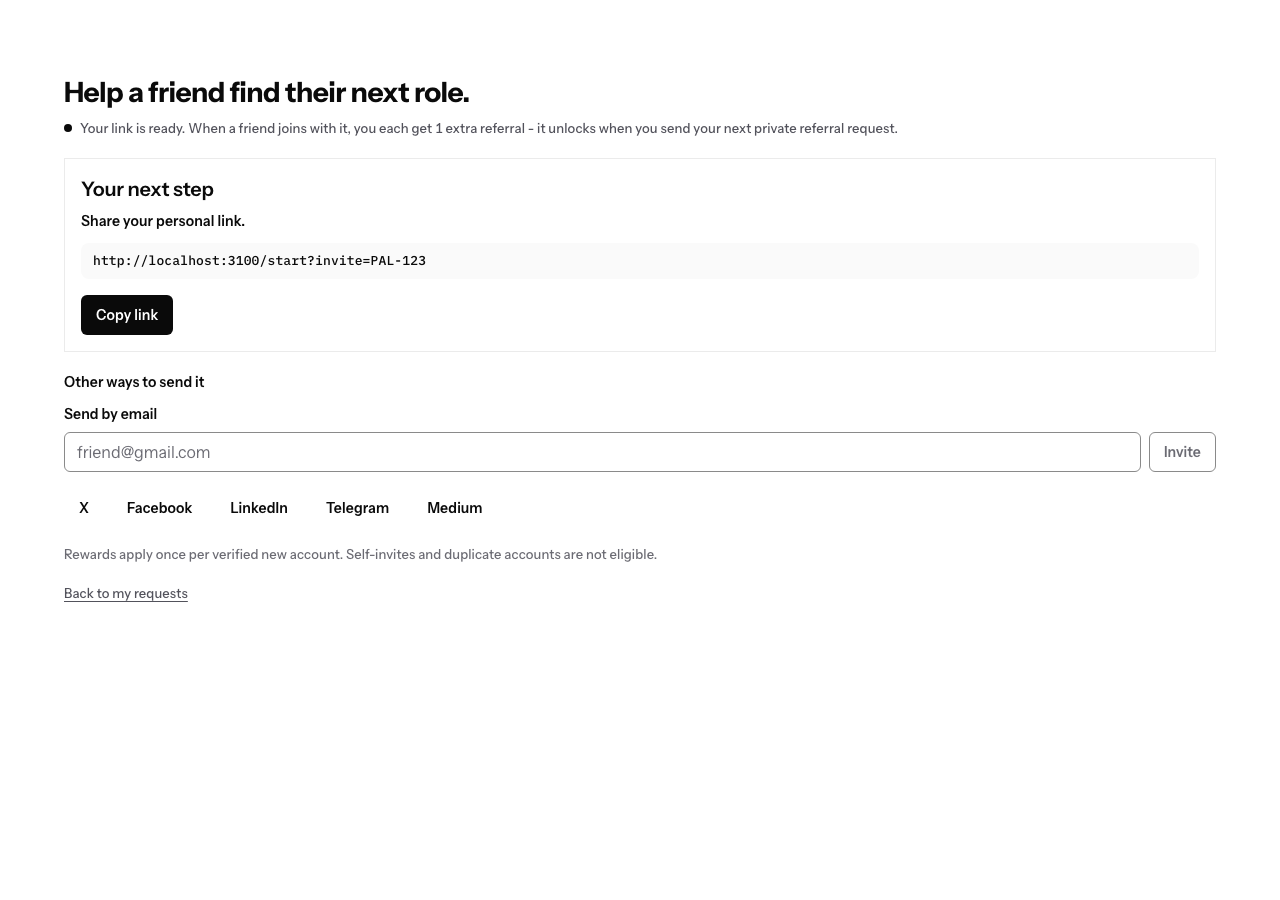
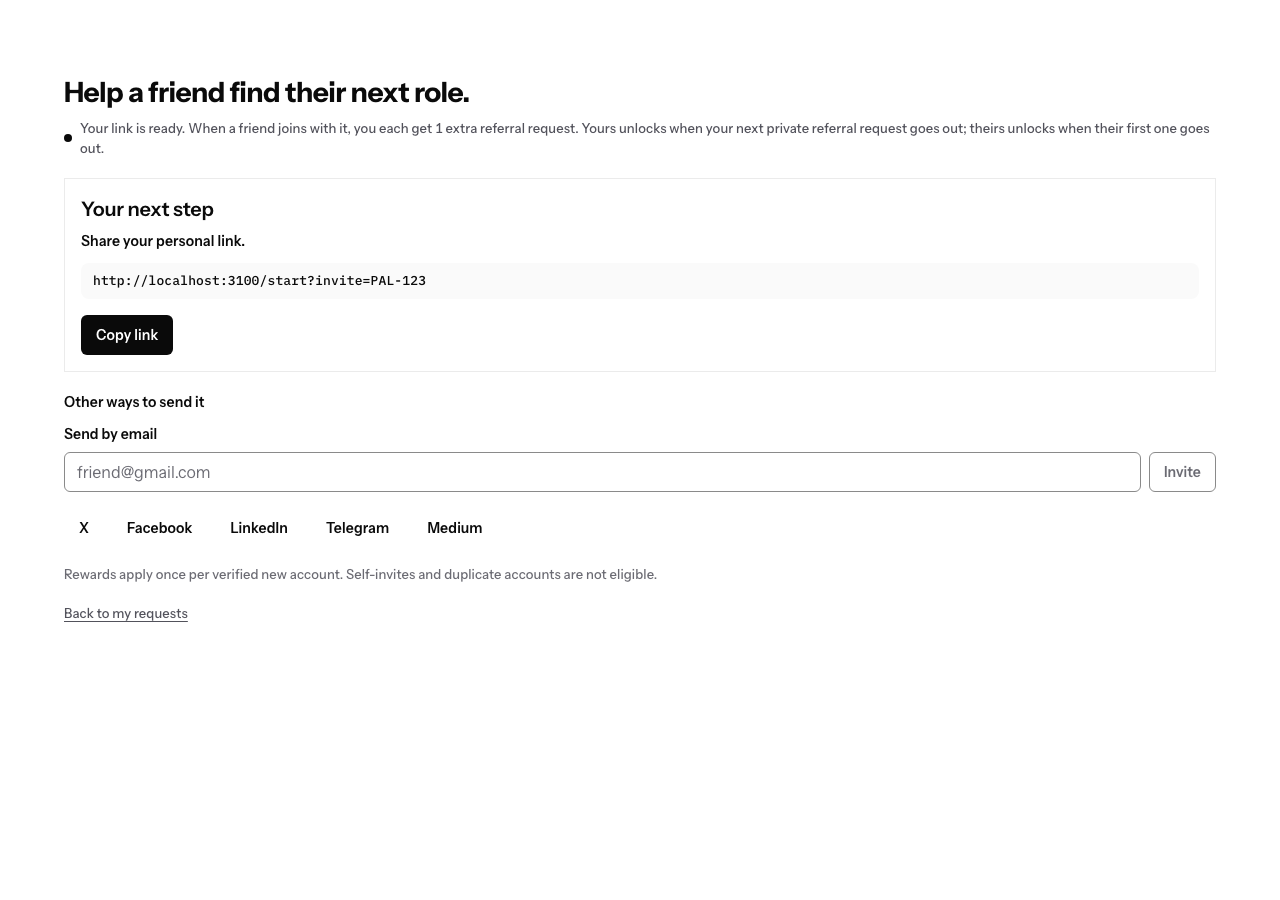
D-048-copy-goal-twins-trigger-fix: state each party's own unlock trigger in the share message and status line; unit is a referral request; cover every rendered state

diff --git a/client/src/pages/goal/seeker-small/landedGoal.test.tsx b/client/src/pages/goal/seeker-small/landedGoal.test.tsx
@@ -16,10 +16,13 @@ vi.mock("@/lib/goalSurfaces", async (importOriginal) => {
 vi.mock("@/hooks/usePersistFn", () => ({ usePersistFn: (fn: unknown) => fn }));
 
 const hire = { id: "r1", status: "closed", referrerId: "ref-1", referrerName: "Asha Rao", title: "Frontend Engineer", companyName: "Quillmint", companyDomain: "quillmint.ai", updatedAt: "2026-10-20T00:00:00Z" };
-const requestsState = { requests: [hire] };
+const requestsState = { requests: [hire], fail: false };
 vi.mock("@/components/requests/requestsApi", () => ({
   LOAD_ERROR: "We could not load your referral requests.",
-  fetchMyRequests: vi.fn(async () => ({ requests: requestsState.requests })),
+  fetchMyRequests: vi.fn(async () => {
+    if (requestsState.fail) throw new Error("We could not load your referral requests.");
+    return { requests: requestsState.requests };
+  }),
 }));
 const sendState = { delivered: true, fail: false };
 vi.mock("@/components/landed/landedModel", async (importOriginal) => {
@@ -35,7 +38,7 @@ function renderPage() {
 }
 
 describe("goal landed", () => {
-  beforeEach(() => { authState.isLoaded = true; authState.isSignedIn = true; flagState.on = true; requestsState.requests = [hire]; sendState.delivered = true; sendState.fail = false; });
+  beforeEach(() => { authState.isLoaded = true; authState.isSignedIn = true; flagState.on = true; requestsState.requests = [hire]; requestsState.fail = false; sendState.delivered = true; sendState.fail = false; });
   afterEach(() => { cleanup(); vi.unstubAllGlobals(); });
 
   it("opens on the goal with one commit for the hire", async () => {
@@ -57,6 +60,19 @@ describe("goal landed", () => {
     fireEvent.click(screen.getByRole("button", { name: /Yes, I will pay it forward/ }));
     expect(await screen.findByRole("heading", { name: /other side of the door/ })).toBeTruthy();
     expect(screen.getByRole("link", { name: /Verify work email/ }).getAttribute("href")).toBe("/verify");
+    // The closing ghost action is referral-only too.
+    expect(screen.getByRole("link", { name: "Close my other referral requests" }).getAttribute("href")).toBe("/requests");
+    expect(document.body.textContent ?? "").not.toMatch(/\basks?\b/);
+  });
+
+  it("keeps the reassurance referral-only when the requests cannot be loaded", async () => {
+    requestsState.fail = true;
+    renderPage();
+    // The title and the thrown detail both read the referral-only LOAD_ERROR.
+    expect((await screen.findAllByText(/We could not load your referral requests/)).length).toBeGreaterThan(0);
+    expect(screen.getByText(/Nothing was lost - your referral requests and this thank-you wait for you/)).toBeTruthy();
+    expect(screen.getByRole("button", { name: "Try again" })).toBeTruthy();
+    expect(document.body.textContent ?? "").not.toMatch(/\basks?\b/);
   });
 
   it("says when the thank-you could not be delivered", async () => {
@@ -80,6 +96,9 @@ describe("goal landed", () => {
     authState.isSignedIn = false;
     renderPage();
     expect(await screen.findByRole("button", { name: "Secure sign in" })).toBeTruthy();
+    // The signed-out teaser is referral-only (D-180).
+    expect(screen.getByText(/find the referral request and send your thank-you/)).toBeTruthy();
+    expect(document.body.textContent ?? "").not.toMatch(/\basks?\b/);
   });
 
   it("flags off keeps the kit journey", async () => {

diff --git a/client/src/pages/goal/seeker-small/GoalShareHub.tsx b/client/src/pages/goal/seeker-small/GoalShareHub.tsx
@@ -16,7 +16,7 @@ export default function GoalShareHub() {
   const [linkError, setLinkError] = useState("");
   const origin = typeof window === "undefined" ? "https://skipwait.me" : window.location.origin;
   const link = useMemo(() => inviteCode ? `${origin}/start?invite=${encodeURIComponent(inviteCode)}` : "", [inviteCode, origin]);
-  const message = useMemo(() => link ? `You found an opportunity! Now help your friends do the same.\n\nJoin skipwait.me with my link. We each get 1 extra referral - it unlocks with your first referral request.\n\n${link}` : "", [link]);
+  const message = useMemo(() => link ? `You found an opportunity! Now help your friends do the same.\n\nJoin skipwait.me with my link. We each get 1 extra referral request - yours unlocks when your first referral request goes out, and mine when my next one does.\n\n${link}` : "", [link]);
   const emailInviteHref = useMemo(() => { const recipient = email.trim(); if (!link || !/^\S+@\S+\.\S+$/.test(recipient)) return ""; return `mailto:${recipient}?subject=${encodeURIComponent("You found an opportunity. Help a friend do the same.")}&body=${encodeURIComponent(message)}`; }, [email, link, message]);
 
   const loadInvite = useCallback(() => { if (!isSignedIn) return; setLoading(true); setLinkError(""); void fetch("/api/personal-invites/me", { credentials: "include" }).then(async response => { if (!response.ok) throw new Error("Your personal invite link is temporarily unavailable. Please try again."); return readApiJson<{ invite?: { inviteCode?: string } }>(response, "Your personal invite link is temporarily unavailable. Please try again."); }).then(data => setInviteCode(data.invite?.inviteCode ?? "")).catch((reason: Error) => setLinkError(reason.message || "We could not create your personal link. Try again.")).finally(() => setLoading(false)); }, [isSignedIn]);
@@ -43,7 +43,7 @@ export default function GoalShareHub() {
       <h1 className="text-g-display text-g-ink">Help a friend find their next role.</h1>
       <p className="mt-2 flex items-center gap-2 text-g-meta text-g-ink-2">
         <span aria-hidden="true" className={`size-(--g-dot) shrink-0 rounded-full ${linkError ? "bg-g-crimson" : "bg-g-ink"}`} />
-        <span>{linkError ? "We could not create your personal link." : loading ? "Creating your link…" : "Your link is ready."} When a friend joins with it, you each get 1 extra referral - it unlocks when you send your next private referral request.</span></p>
+        <span>{linkError ? "We could not create your personal link." : loading ? "Creating your link…" : "Your link is ready."} When a friend joins with it, you each get 1 extra referral request. Yours unlocks when your next private referral request goes out; theirs unlocks when their first one goes out.</span></p>
     </header>
 
     <section aria-label="Your next step" className="mx-4 my-5 border border-g-hairline p-4 gdesk:mx-5" data-skipwait-share-content="true">

diff --git a/client/src/pages/goal/seeker-small/shareHubGoal.test.tsx b/client/src/pages/goal/seeker-small/shareHubGoal.test.tsx
@@ -35,13 +35,33 @@ describe("goal share hub", () => {
     expect(screen.getByRole("heading", { level: 1, name: "Help a friend find their next role." })).toBeTruthy();
     expect(await screen.findByText(/Your link is ready/)).toBeTruthy();
     expect(screen.getByText(/invite=PAL-123/)).toBeTruthy();
-    // Referral-only reward copy (D-180/D-055): the unit is a referral, and the
-    // reward is stated as pending until the next private referral request.
-    expect(screen.getByText(/you each get 1 extra referral/)).toBeTruthy();
-    expect(screen.getByText(/unlocks when you send your next private referral request/)).toBeTruthy();
+    // Referral-only reward copy (D-180/D-055): the unit is a referral request, and each
+    // party's reward is tied to that party's own request, never to one shared trigger.
+    expect(screen.getByText(/you each get 1 extra referral request/)).toBeTruthy();
+    expect(screen.getByText(/Yours unlocks when your next private referral request goes out/)).toBeTruthy();
+    expect(screen.getByText(/theirs unlocks when their first one goes out/)).toBeTruthy();
     expect(document.body.textContent ?? "").not.toMatch(/referral credit/i);
+    expect(document.body.textContent ?? "").not.toMatch(/it unlocks when you send/i);
     const commit = screen.getByRole("button", { name: "Copy link" });
     expect(commit.getAttribute("aria-disabled")).not.toBe("true");
+  });
+
+  it("tells the friend which request unlocks which reward in the sent message", async () => {
+    vi.stubGlobal("fetch", stubInvite());
+    render(<ShareHub />);
+    expect(await screen.findByText(/Your link is ready/)).toBeTruthy();
+    fireEvent.change(screen.getByLabelText("Friend email"), { target: { value: "friend@example.com" } });
+    const invite = screen.getByRole("link", { name: "Invite" });
+    const href = invite.getAttribute("href") ?? "";
+    expect(href.startsWith("mailto:friend@example.com")).toBe(true);
+    const body = decodeURIComponent(href.split("&body=")[1] ?? "");
+    // Each person's reward is unlocked by that person's own request.
+    expect(body).toContain("We each get 1 extra referral request");
+    expect(body).toContain("yours unlocks when your first referral request goes out");
+    expect(body).toContain("mine when my next one does");
+    // The retired single-trigger construction must not come back.
+    expect(body).not.toContain("it unlocks with your first referral request");
+    expect(body).not.toMatch(/referral credit/i);
   });
 
   it("offers Try again when the link cannot be created", async () => {
